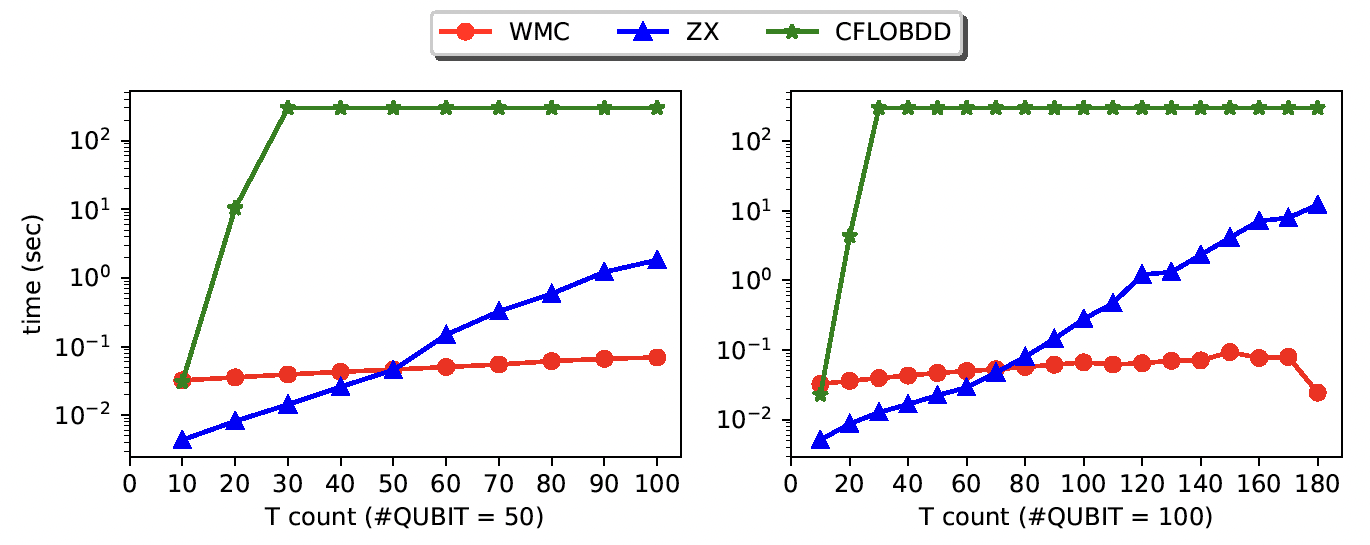
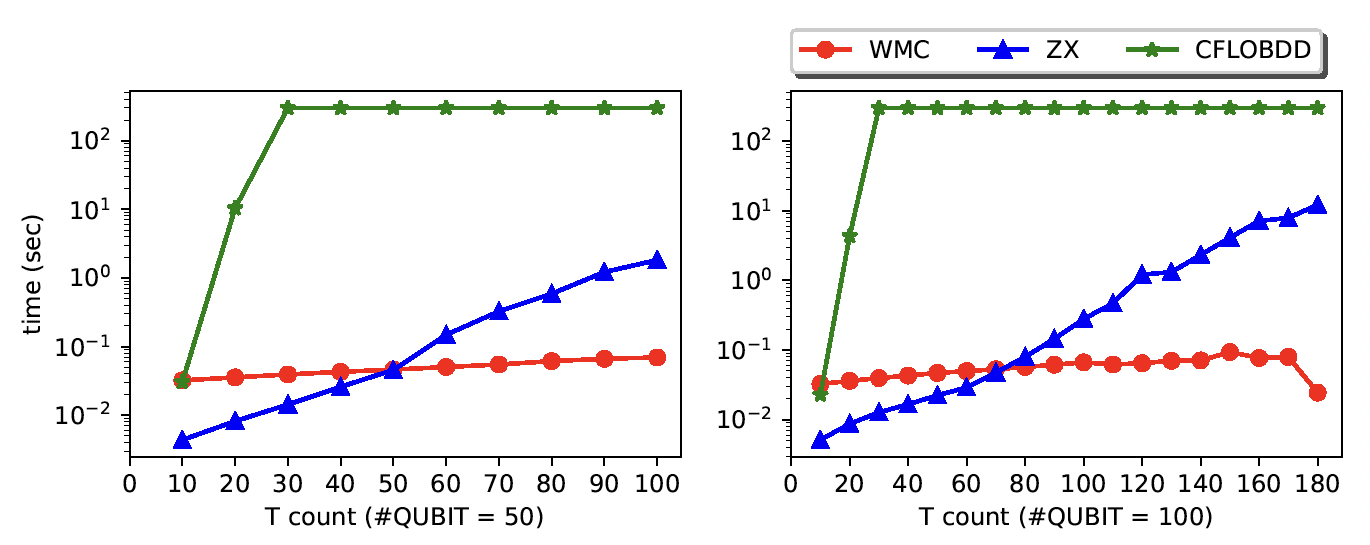
minor changes

Changed region(s): [[0.3066, 0.0, 0.981, 0.156]]

diff --git a/1_intro.tex b/1_intro.tex
@@ -298,7 +298,7 @@
 
 \begin{frame}{This Talk}
 	
-
+\vspace{-5em}
 \begin{block}{Quantum Computing with \#SAT}
 	
 	
@@ -335,8 +335,8 @@
 \centering
 ~~~~~~~~\begin{tikzpicture}\footnotesize
   \tikzset{venn circle/.style={circle,minimum width=2cm,fill=####1,opacity=0.4}}
-  \node [venn circle=white,minimum width=4cm,draw] (A) at (0,0.3) {};
-  \node  at (0,1.95) 			{State space};
+  \node [venn circle=white,minimum width=4.5cm,draw] (A) at (0,0.3) {};
+  \node  at (0,2.15) 			{State space};
 
   \node [venn circle = Red!40!white, ellipse,minimum height=2.2cm, minimum width=3.6cm] (L) at (0,0.6) {};
   \node  at (0,1.5) 		{poly-\alert{\limdd}};
@@ -345,12 +345,12 @@
   \node[text width=1.3cm,align=center]  at (-.7,-1.) {poly-MPS};
 
 
-  \node [venn circle = green!70!white,text width=1.3cm,align=center,rotate=119,ellipse,minimum height=1.8cm, minimum width=2.5cm] (B) at (.6,-.2) {};
-  \node[text width=1.3cm,align=center]  at (.9,-1.) {poly-RBM};
+  \node [venn circle = green!70!white,text width=1.3cm,align=center,rotate=119,ellipse,minimum height=1.8cm, minimum width=2.5cm] (B) at (.8,-.2) {};
+  \node[text width=1.3cm,align=center]  at (1,-1.) {poly-RBM};
 
 
 
-  \node [venn circle = Blue!100!white,text width=1cm,align=center, minimum width=1.cm] (B) at (-.5,.3) 	{\textcolor{white}{poly-QMDD}};						
+  \node [venn circle = Blue!100!white,text width=1cm,align=center, minimum width=1.cm] (B) at (-.5,.3) 	{\textcolor{white}{poly-EVDD}};						
 
   \node [venn circle = OliveGreen!100!white,text width=1cm,align=center, minimum width=1.cm] (C) at (.5,.2) {\textcolor{white}{Stabilizer states}};
 
@@ -374,7 +374,7 @@ ADD   	& \Yar	& \Yes	& \Yes	& \Yes & \Yes
 %		| Add	| H		| XYZ	| CX	| Swap	| Local	| T
 		& \Yes	& \Yes 	& \Yes	& \Yes	& \Yes	& \Yes	& \Yes \\
 \hline
-QMDD
+EVDD
 		& \Yar	& \Yes	& \Yes	& \Yes & \Yes
 		& \No	& \No 	& \Yes	& \Yes	& \No	& \No	& \Yes \\
 \hline 
